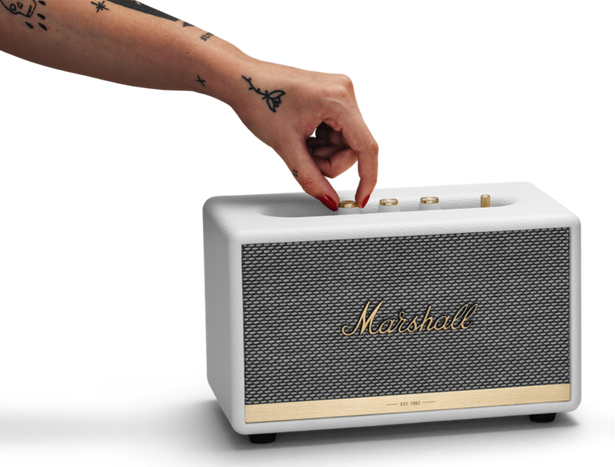
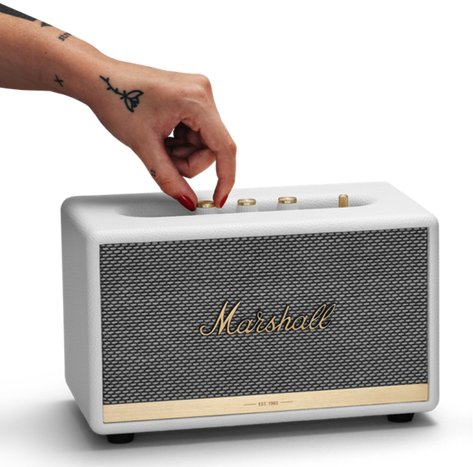
reversed images bc causing weird positioning

diff --git a/src/assets/styles/components/_produitPage.scss b/src/assets/styles/components/_produitPage.scss
@@ -1,14 +1,15 @@
 .productPage{
-    // padding-top: 100px;
     background: #222;
     &_header{
-        height: 100vh;
+        min-height: 100vh;
         display: flex;
         flex-direction: column;
         color: white;
         position: relative;
+        padding-bottom: 50px;
         img{
           max-width: 50%;
+          max-height: 100vh;
           }
         &_name{
           box-sizing: border-box;
@@ -16,13 +17,14 @@
           flex-direction: column;
           align-items: center;
           h1{
-            font-size: 4rem;
+            font-size: 4em;
+            text-transform: uppercase;
             letter-spacing: 3px;
             text-align: center;
           }
           p{
             font-family: roboto;
-            font-size: 1rem;
+            font-size: 1.2em;
             text-align: justify;
             width: 85%;
           }
@@ -37,15 +39,14 @@
       align-items: center;
       justify-content: space-around;
       box-sizing: border-box;
-      padding: 20px 50px;
+      padding: 20px 20px;
       h2{
-        font-size: 6vw;
+        font-size: 3em;
         text-align: center;
       }
       p{
         font-family: roboto;
-        // font-size: 1.2rem;
-        text-align: justify;
+        text-align: center;
       }
       img{
         width: 100%;
@@ -53,20 +54,20 @@
       }
     }
 }
-@media screen and (min-width: 780px){
+@media screen and (min-width: 800px){
   .productPage{
     &_header{
       flex-direction: row;
       align-items: center;
-      // img{
-      //   height: 100vh;
-      // }
       &_name{
         padding-right: 50px;
         p{
           width: 100%;
         }
       }
+    }
+    &_description{
+      padding: 20px 50px;
     }
   }
 }

diff --git a/src/assets/styles/_base.scss b/src/assets/styles/_base.scss
@@ -5,10 +5,20 @@ html{
 body{
     margin: 0;
     padding: 0;
-    font-size: 12px;
+    font-size: 8px;
     background: #333;
     width: 100vw;
     overflow-x: hidden;
+}
+@media screen and (min-width: 320px){
+    body{
+        font-size: 10px;
+    }
+}
+@media screen and (min-width: 576px){
+    body{
+        font-size: 12px;
+    }
 }
 section{
     min-height: 100vh;
